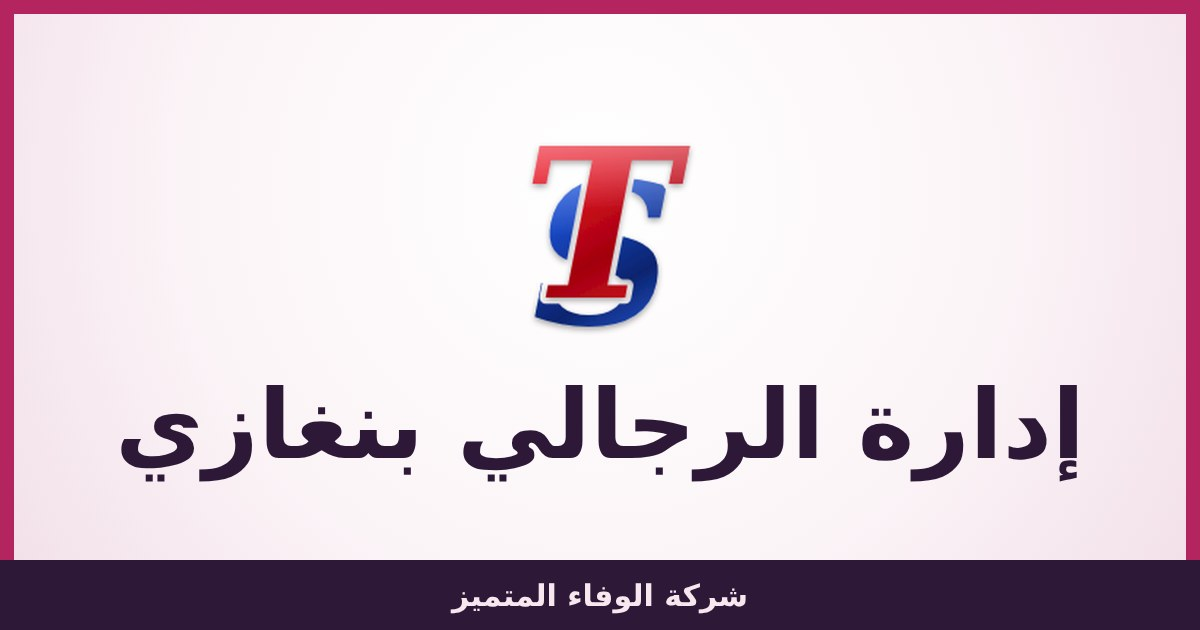
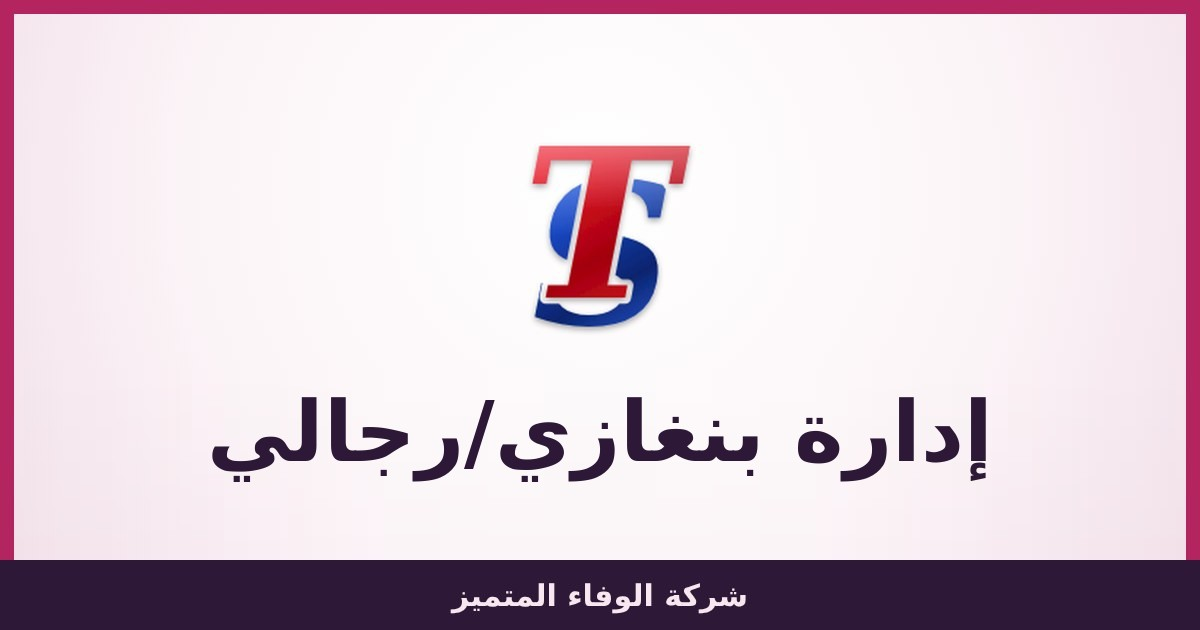
Add files via upload

Changed region(s): [[0.0925, 0.6032, 0.925, 0.7841]]

diff --git a/index.html b/index.html
@@ -327,10 +327,10 @@ function esc(s){return String(s==null?'':s).replace(/[&<>"']/g,function(c){retur
 function money(n){return Number(n||0).toLocaleString('en-US')}
 function find(id){for(var i=0;i<D.products.length;i++)if(D.products[i].id===id)return D.products[i];return KNOWN[id]||null}
 function cartons(n){return n===1?'كرتونة واحدة':n===2?'كرتونتان':(n>=3&&n<=10?n+' كراتين':n+' كرتونة')}
-var LOCS=[['','الرئيسي'],['tr','طرابلس'],['bn','بنغازي'],['ms','مصراتة'],['aj','اجدابيا'],['by','البيضاء'],['tb','طبرق'],['mr','قسم رجالي']],BRK=LOCS.slice(1).map(function(x){return x[0]});
+var LOCS=[['','بنغازي الرئيسي'],['tr','طرابلس'],['bn','بنغازي/رجالي'],['ms','مصراتة'],['aj','اجدابيا'],['by','البيضاء'],['tb','طبرق'],['mr','بنغازي/بلاستيك']],BRK=LOCS.slice(1).map(function(x){return x[0]});
 function locName(k){for(var i=0;i<LOCS.length;i++)if(LOCS[i][0]===(k||''))return LOCS[i][1];return ''}
 function brUrlKey(){var m=/^#branch-([a-z]{2})/i.exec(location.hash);return m&&BRK.indexOf(m[1].toLowerCase())>=0?m[1].toLowerCase():''}
-function brKeyOf(n){var x=String(n||'').replace(/[أإآ]/g,'ا').trim();if(x.indexOf('بنغازي')>=0)return 'bn';if(x==='المعرض')return 'mr';for(var i=1;i<LOCS.length;i++)if(x===LOCS[i][1])return LOCS[i][0];return ''}
+function brKeyOf(n){var x=String(n||'').replace(/[أإآ]/g,'ا').trim();if(x.indexOf('الرئيسي')>=0)return '';if(x==='المعرض'||x==='قسم رجالي'||/بلاستي?ك/.test(x))return 'mr';if(x.indexOf('بنغازي')>=0)return 'bn';for(var i=1;i<LOCS.length;i++)if(x===LOCS[i][1])return LOCS[i][0];return ''}
 function bq(p,k){if(!p)return 0;return k?Math.max(0,Math.round((p.bs&&p.bs[k])||0)):(p.stock||0)}
 var custLoc='',locSet=false;try{var lv=localStorage.getItem('wf_loc');if(lv!==null&&(lv===''||BRK.indexOf(lv)>=0)){custLoc=lv;locSet=true}}catch(e){}
 function av(p){return bq(p,custLoc)}
@@ -565,7 +565,7 @@ function sendOrder(){
 var man=null;
 /* حسابات الفروع: كل بريد = فرع. مسؤول الفرع يدخل لوحة الإدارة ويرى فقط شاشة «إدخال بضاعة واصلة» */
 var OWNER_EMAIL='kalzunni@gmail.com';
-var BR_USERS={'tripoli@alwafaa.ly':'طرابلس','misrata@alwafaa.ly':'مصراتة','ajdabiya@alwafaa.ly':'اجدابيا','benghazi@alwafaa.ly':'الرجالي بنغازي','maarad@alwafaa.ly':'قسم رجالي','bayda@alwafaa.ly':'البيضاء','tobruk@alwafaa.ly':'طبرق'};
+var BR_USERS={'tripoli@alwafaa.ly':'طرابلس','misrata@alwafaa.ly':'مصراتة','ajdabiya@alwafaa.ly':'اجدابيا','benghazi@alwafaa.ly':'بنغازي/رجالي','maarad@alwafaa.ly':'بنغازي/بلاستيك','bayda@alwafaa.ly':'البيضاء','tobruk@alwafaa.ly':'طبرق'};
 function uEmail(){return user&&user.email?String(user.email).toLowerCase():''}
 function role(){var e=uEmail();if(!e)return '';if(e===OWNER_EMAIL)return 'owner';if(BR_USERS[e])return 'branch';return 'none'}
 function myBranch(){return BR_USERS[uEmail()]||''}
@@ -639,7 +639,7 @@ function drawBs(){var el=document.getElementById('bsL');if(!el)return;var K=brKe
  el.innerHTML='<p class="note sm">إجمالي رصيد الفرع: <b class="num">'+tot+'</b> كرتونة'+(q?'':' — تظهر الأصناف التي لها رصيد فقط، وابحث لإضافة غيرها')+'</p>'+(A.length?A.map(function(p){return '<div class="bsrow"><span class="cth">'+(p.images&&p.images[0]?'<img src="'+p.images[0]+'" alt="">':'')+'</span><div class="cmid"><b class="num">'+esc(p.code)+'</b>'+(p.name?'<small>'+esc(p.name)+'</small>':'')+'<small>مقاس <span class="num">'+esc(p.sizes)+'</span></small></div><input type="number" min="0" inputmode="numeric" data-bsq="'+p.id+'" value="'+bq(p,K)+'" aria-label="الكمية بالكراتين"><button class="btn acc" data-bssave="'+p.id+'" type="button">حفظ</button></div>'}).join(''):'<p class="empty sm">'+(q?'لا يوجد صنف بهذا الرقم أو الاسم.':'لا يوجد رصيد للفرع بعد.')+'</p>')}
 function saveBs(id,btn){var K=brKeyOf(myBranch()),p=find(id),inp=document.querySelector('[data-bsq="'+id+'"]');if(!K||!p||!inp)return;var n=Math.max(0,Math.round(Number(digits(inp.value))||0));btn.disabled=true;
  var u={};u['bs.'+K]=n;fb.fs.updateDoc(fb.fs.doc(db,'products',id),u).then(function(){p.bs=Object.assign({},p.bs);p.bs[K]=n;btn.disabled=false;toast('✅ رصيد '+p.code+' في الفرع: '+cartons(n))},function(e){console.error(e);btn.disabled=false;toast(permMsg(e),4500)})}
-var BRANCHES=['طرابلس','مصراتة','اجدابيا','الرجالي بنغازي','قسم رجالي','البيضاء','طبرق'];
+var BRANCHES=['طرابلس','مصراتة','اجدابيا','بنغازي/رجالي','بنغازي/بلاستيك','البيضاء','طبرق'];
 function manBr(){var S=[];try{S=JSON.parse(localStorage.getItem('wf_branches')||'[]')}catch(e){}return BRANCHES.concat(S.filter(function(x){return BRANCHES.indexOf(x)<0}))}
 function manKeepBr(n){var B=manBr().filter(function(x){return x!==n});B.unshift(n);try{localStorage.setItem('wf_branches',JSON.stringify(B.slice(0,30)))}catch(e){}}
 function manNew(){man={L:{},ord:[],q:'',name:'',city:'',tel:'',note:'',imp:null}}
@@ -656,7 +656,7 @@ function manSaveEdit(){manSync();var E=man.edit,L0=manLines();if(!L0.length){man
  F.runTransaction(db,function(tx){var oref=F.doc(db,'orders',E.id),refs=ids.map(function(i){return F.doc(db,'products',i)});
   return Promise.all([tx.get(oref)].concat(refs.map(function(r){return tx.get(r)}))).then(function(S){if(!S[0].exists()||S[0].data().status==='rejected'){var e0=new Error('gone');e0.gone=1;throw e0}
    var short=[],U=[];S.slice(1).forEach(function(ps,i){var id=ids[i],d=(NQ[id]||0)-(E.old[id]||0);if(!d||!ps.exists())return;var x=ps.data(),st=x.stock||0,bb=bq(x,TK),cd=(find(id)||{}).code||id;
-    if(d>0&&st<d)short.push(cd+' (المخزن الرئيسي فيه '+st+')');if(TK&&d<0&&bb<-d)short.push(cd+' (رصيد الفرع '+bb+' فقط)');var u={stock:st-d};if(TK)u['bs.'+TK]=bb+d;U.push([refs[i],u])});
+    if(d>0&&st<d)short.push(cd+' (مخزن بنغازي الرئيسي فيه '+st+')');if(TK&&d<0&&bb<-d)short.push(cd+' (رصيد الفرع '+bb+' فقط)');var u={stock:st-d};if(TK)u['bs.'+TK]=bb+d;U.push([refs[i],u])});
    if(short.length){var e=new Error('short');e.short=short;throw e}U.forEach(function(x){tx.update(x[0],x[1])});
    tx.update(oref,{lines:L,totals:T,editedAt:F.serverTimestamp(),edits:(S[0].data().edits||0)+1})})}).then(function(){busy=false;man=null;closeSheets();render();toast('✅ تم حفظ تعديل الفاتورة '+(E.no||'')+' وتصحيح الكميات',5000)},
  function(e){busy=false;b.disabled=false;b.textContent='💾 حفظ التعديل';if(e&&e.short){manErr('لا يمكن: '+e.short.join('، '));return}if(e&&e.gone){manErr('هذه الفاتورة أُلغيت أو حُذفت.');return}console.error(e);manErr(e&&e.code==='permission-denied'?'لا توجد صلاحية للتعديل: يجب تحديث قواعد الأمان في Firebase.':'تعذّر الحفظ. تأكد من الإنترنت.')})}
@@ -685,7 +685,7 @@ function ctrChips(){var A=D.products.filter(function(p){return mAv(p)>0&&!(p.pen
  return ctrPick('m',[['','كل الحاويات',A.length]].concat(K.map(function(k){return [k,k,M[k]]})).concat(none?[['-','بدون تصنيف',none]]:[]),cur,'')}
 function viewName(){var c=admCat;if(String(c).indexOf('ctr:')===0)return 'حاوية '+c.slice(4);if(c==='noctr')return 'بدون تصنيف';if(c==='all'||c==='auto')return 'الكل';if(c==='pend')return 'الدفعة الجديدة';if(c==='hidden')return 'المخفية';if(c==='none')return 'بدون قسم';if(c==='plastic')return 'البلاستيك';return catName(c)||c}
 function xlView(){var L=D.products.filter(function(p){return inCat(p,admCat)}).slice().sort(function(a,b){return String(a.code).localeCompare(String(b.code))});if(!L.length){toast('لا توجد أصناف في هذا العرض');return}
- xlsx().then(function(X){var B=LOCS.slice(1),head=['ت','رقم الصنف','اسم الصنف','المقاسات','عبوة الكرتونة','سعر القطعة','القسم','الحاوية','المخزن الرئيسي'].concat(B.map(function(b){return b[1]})).concat(['الإجمالي (كراتين)','الحالة','ظاهر للزبائن']);
+ xlsx().then(function(X){var B=LOCS.slice(1),head=['ت','رقم الصنف','اسم الصنف','المقاسات','عبوة الكرتونة','سعر القطعة','القسم','الحاوية','مخزن بنغازي الرئيسي'].concat(B.map(function(b){return b[1]})).concat(['الإجمالي (كراتين)','الحالة','ظاهر للزبائن']);
   var rows=[head],tot=0;L.forEach(function(p,i){var br=B.map(function(b){return bq(p,b[0])}),all=(p.stock||0)+br.reduce(function(a,b){return a+b},0);tot+=all;
    rows.push([i+1,p.code,p.name||'',p.sizes||'',p.pack||'',p.price||0,catName(p.cat)||'',p.ctr||'',p.stock||0].concat(br).concat([all,all>0?'متوفر':'نفد (كامل)',p.hidden?'لا':'نعم']))});
   rows.push([]);rows.push(['','المجموع','','','','','','','']. concat(B.map(function(){return ''})).concat([tot]));
@@ -776,9 +776,9 @@ function manSave(){if(man&&man.edit){manSaveEdit();return}manSync();var isB=role
    snaps.forEach(function(s,i){var u={stock:s.data().stock-L[i].q};if(TK)u['bs.'+TK]=bq(s.data(),TK)+L[i].q;tx.update(refs[i],u)});
    tx.set(ref,Object.assign({no:invNo(),date:today(),status:'accepted',manual:true,createdAt:F.serverTimestamp(),doneAt:F.serverTimestamp(),customer:cu,lines:L,totals:T},extra));
   })}).then(function(){
-  busy=false;if(isB){man=null;closeSheets();render();scrollTo(0,0);toast(TK?'✅ تم نقل '+cartons(T.c)+' من المخزن الرئيسي إلى رصيد فرع '+locName(TK):'✅ تم حفظ الواصل لفرع '+cu.name+' وخصم '+cartons(T.c)+' من المنظومة',5000);notifyBranch(cu.name,L,T);return}
+  busy=false;if(isB){man=null;closeSheets();render();scrollTo(0,0);toast(TK?'✅ تم نقل '+cartons(T.c)+' من مخزن بنغازي الرئيسي إلى رصيد فرع '+locName(TK):'✅ تم حفظ الواصل لفرع '+cu.name+' وخصم '+cartons(T.c)+' من المنظومة',5000);notifyBranch(cu.name,L,T);return}
   manKeepBr(cu.name);man=null;closeSheets();adminTab='orders';ordTab='accepted';render();scrollTo(0,0);
-  toast(TK?'✅ تم نقل '+cartons(T.c)+' من المخزن الرئيسي إلى رصيد فرع '+locName(TK):'✅ تم حفظ فاتورة '+cu.name+' وخصم '+cartons(T.c)+' من المخزون',4500);
+  toast(TK?'✅ تم نقل '+cartons(T.c)+' من مخزن بنغازي الرئيسي إلى رصيد فرع '+locName(TK):'✅ تم حفظ فاتورة '+cu.name+' وخصم '+cartons(T.c)+' من المخزون',4500);
  },function(e){busy=false;b.disabled=false;b.textContent='💾 حفظ الفاتورة وخصم المخزون';
   if(e&&e.short){manErr('الكمية في المخزن أقل من المطلوب: '+e.short.join('، ')+'. عدّل الكمية ثم احفظ مرة أخرى.');return}
   console.error(e);manErr(e&&e.code==='permission-denied'?permMsg(e):'تعذّر الحفظ. تأكد من الإنترنت ثم حاول مرة أخرى.')});
@@ -994,7 +994,7 @@ function editCard(p){
  '<label>المقاسات<input data-f="sizes" data-id="'+p.id+'" value="'+esc(p.sizes)+'"></label>'+
   '<label>🏷 تصنيف الحاوية<input data-f="ctr" data-id="'+p.id+'" list="ctrDl" value="'+esc(p.ctr||'')+'"></label>'+
  '<div class="two"><label>عبوة الكرتونة<input type="number" min="1" inputmode="numeric" data-f="pack" data-id="'+p.id+'" value="'+p.pack+'"></label><label>سعر القطعة<input type="number" min="0" step="0.5" inputmode="decimal" data-f="price" data-id="'+p.id+'" value="'+p.price+'"></label></div>'+
- '<label>المتوفر في المخزن الرئيسي (كراتين)<input type="number" min="0" inputmode="numeric" data-f="stock" data-id="'+p.id+'" value="'+p.stock+'"></label>'+
+ '<label>المتوفر في مخزن بنغازي الرئيسي (كراتين)<input type="number" min="0" inputmode="numeric" data-f="stock" data-id="'+p.id+'" value="'+p.stock+'"></label>'+
   '<div class="bsh">رصيد الفروع (كراتين)</div><div class="bsg">'+LOCS.slice(1).map(function(x){return '<label>'+x[1]+'<input type="number" min="0" inputmode="numeric" data-f="b:'+x[0]+'" data-id="'+p.id+'" value="'+bq(p,x[0])+'"></label>'}).join('')+'</div>'+
  (p.images&&p.images.length?'<button class="read" data-readai="'+p.id+'" type="button"'+(aiBusy?' disabled':'')+'>📷 اقرأ البيانات من الصورة</button>':'')+
  '<button class="btn acc" data-savep="'+p.id+'" type="button"'+(p._dirty?'':' disabled')+'>حفظ</button>'+
@@ -1282,7 +1282,7 @@ document.addEventListener('click',function(e){
  if(ds.accept){acceptOrder(ds.accept);return}
  if(ds.mcancel){if(ds.sure)cancelManual(ds.mcancel);else{ds.sure='1';t.textContent='متأكد؟ اضغط مرة ثانية لإلغاء الفاتورة وإرجاع الكمية'}return}
  if(ds.mcat&&man){man.cat=ds.mcat;manDrawRes();return}
- if(ds.mbr!=null&&man){var BC={'الرجالي بنغازي':'بنغازي','قسم رجالي':''};man.name=ds.mbr;man.city=BC.hasOwnProperty(ds.mbr)?BC[ds.mbr]:ds.mbr;man.cat='';openManual();return}
+ if(ds.mbr!=null&&man){var BC={'الرجالي بنغازي':'بنغازي','بنغازي/رجالي':'بنغازي','بنغازي/بلاستيك':'بنغازي','قسم رجالي':''};man.name=ds.mbr;man.city=BC.hasOwnProperty(ds.mbr)?BC[ds.mbr]:ds.mbr;man.cat='';openManual();return}
  if(t.id==='mNameOk'&&man){var mn=document.getElementById('mName');var nv=mn&&mn.value.trim();if(!nv){toast('اكتب اسم الزبون أو اختر فرعاً');return}man.name=nv;openManual();return}
  if(ds.mchg&&man){manSync();man.name='';openManual();return}
  if(ds.mpick&&man){manPickId(ds.mpick);return}

diff --git a/benghazi.html b/benghazi.html
@@ -1,7 +1,7 @@
 <!doctype html><html lang="ar" dir="rtl"><head><meta charset="utf-8">
-<title>إدارة الرجالي بنغازي — الوفاء المتميز</title>
-<meta property="og:title" content="إدارة الرجالي بنغازي">
-<meta property="og:description" content="شركة الوفاء المتميز — بوابة فرع الرجالي بنغازي">
+<title>إدارة بنغازي/رجالي — الوفاء المتميز</title>
+<meta property="og:title" content="إدارة بنغازي/رجالي">
+<meta property="og:description" content="شركة الوفاء المتميز — بوابة فرع بنغازي/رجالي">
 <meta property="og:image" content="https://alwafaa-libya.github.io/Shoes/benghazi.jpg">
 <meta property="og:image:width" content="1200"><meta property="og:image:height" content="630">
 <meta property="og:type" content="website">
@@ -12,5 +12,5 @@
 <meta http-equiv="refresh" content="0;url=./#branch-bn">
 <script>location.replace('./#branch-bn')</script>
 </head><body style="font-family:Tahoma,sans-serif;text-align:center;padding:40px">
-<p>جارٍ فتح إدارة الرجالي بنغازي… <a href="./#branch-bn">اضغط هنا إن لم تفتح</a></p>
+<p>جارٍ فتح إدارة بنغازي/رجالي… <a href="./#branch-bn">اضغط هنا إن لم تفتح</a></p>
 </body></html>

diff --git a/rijali.html b/rijali.html
@@ -1,7 +1,7 @@
 <!doctype html><html lang="ar" dir="rtl"><head><meta charset="utf-8">
-<title>إدارة قسم رجالي — الوفاء المتميز</title>
-<meta property="og:title" content="إدارة قسم رجالي">
-<meta property="og:description" content="شركة الوفاء المتميز — بوابة فرع قسم رجالي">
+<title>إدارة بنغازي/بلاستيك — الوفاء المتميز</title>
+<meta property="og:title" content="إدارة بنغازي/بلاستيك">
+<meta property="og:description" content="شركة الوفاء المتميز — بوابة فرع بنغازي/بلاستيك">
 <meta property="og:image" content="https://alwafaa-libya.github.io/Shoes/rijali.jpg">
 <meta property="og:image:width" content="1200"><meta property="og:image:height" content="630">
 <meta property="og:type" content="website">
@@ -12,5 +12,5 @@
 <meta http-equiv="refresh" content="0;url=./#branch-mr">
 <script>location.replace('./#branch-mr')</script>
 </head><body style="font-family:Tahoma,sans-serif;text-align:center;padding:40px">
-<p>جارٍ فتح إدارة قسم رجالي… <a href="./#branch-mr">اضغط هنا إن لم تفتح</a></p>
+<p>جارٍ فتح إدارة بنغازي/بلاستيك… <a href="./#branch-mr">اضغط هنا إن لم تفتح</a></p>
 </body></html>
